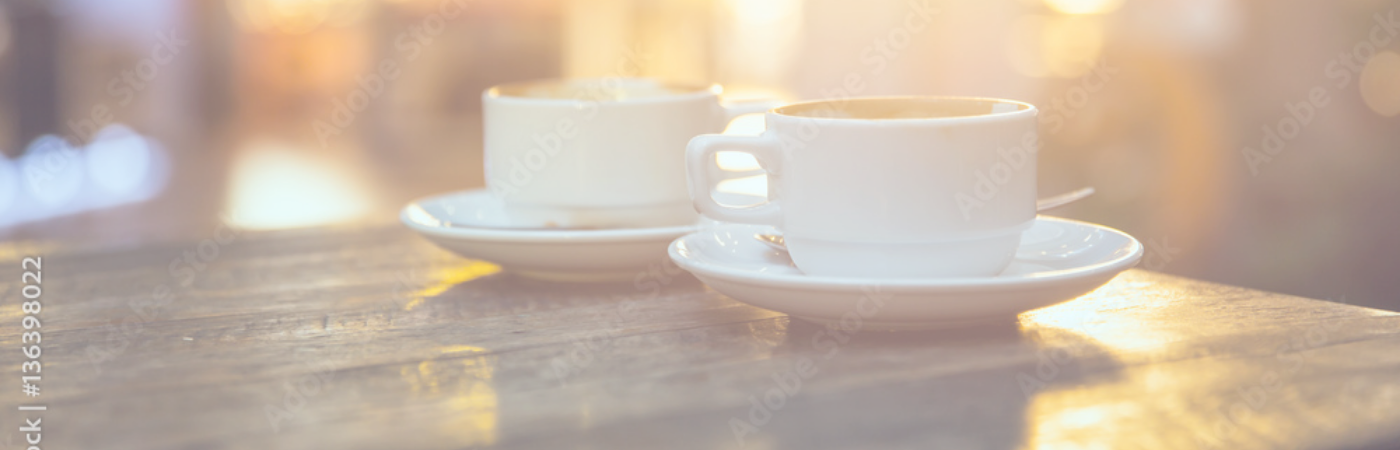
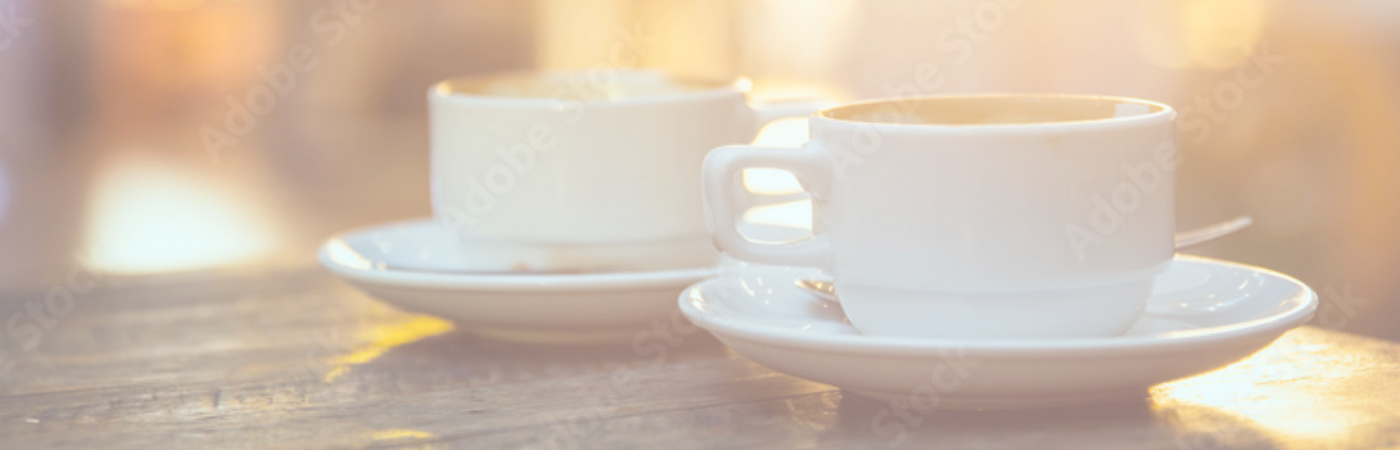
画像差し替え

diff --git a/css/style.css b/css/style.css
@@ -464,7 +464,7 @@ main {
 
 /* フッター */
 #home footer {
-  background-image: url(../images/footer-top-test.png);
+  background-image: url(../images/footer-top.png);
   height: 450px;
   overflow: hidden;
   background-attachment: fixed;
@@ -911,7 +911,7 @@ main {
 }
 
 #online footer {
-  background-image: url(../images/footer-online-test.png);
+  background-image: url(../images/footer-online.png);
   height: 450px;
   width: 100%;
   overflow: hidden;
